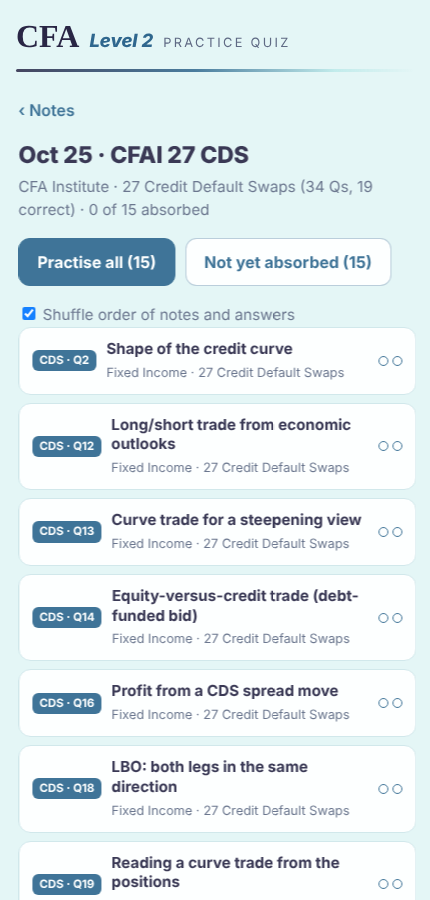
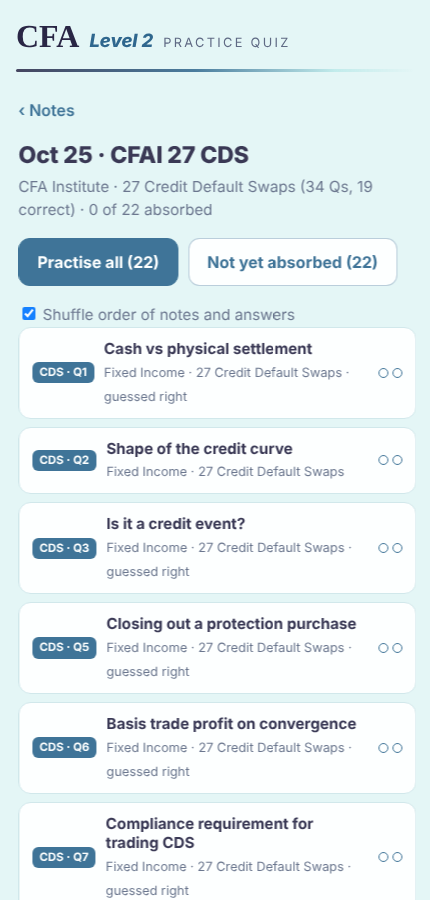
Wrong-answer notes: add 7 guessed/related CDS notes (Q1, Q3, Q5, Q6, Q7, Q8, Q22) with a guessed-right marker
Claude-Session: https://claude.ai/code/session_01F2TRiKrZPFK6G8wEApnUzn

diff --git a/notes.js b/notes.js
@@ -24,7 +24,8 @@ const NOTE_SESSIONS = [
 const NOTES = (() => {
   const N = (mock, num, reading, subject, title, stem, ask, opts, answer, mine, formula, why, general, x) =>
     ({ id: `m${mock}q${num}`, set: `2026-10-24-s${mock}`, tag: `Mock ${mock} · Q${num}`, session: mock, mock, num, reading, subject, title, stem, ask, options: opts.map(([t, n]) => ({ t, n })), answer, mine, formula, why, general, x: x || "" });
-  // CFA Institute 27 Credit Default Swaps, 25 Oct.
+  // CFA Institute 27 Credit Default Swaps, 25 Oct. G = answered correctly but by guessing (or closely related): same fields, flagged.
+  const G = (num, title, ...r) => ({ ...C(num, title, ...r), guess: true });
   const C = (num, title, ...r) => ({ ...N(0, num, 27, "Fixed Income", title, ...r), id: `c${num}`, set: "2026-10-25-cds", tag: `CDS · Q${num}`, session: 3, mock: 0 });
   return [
     // ---------------- Paper 1 ----------------
@@ -389,5 +390,56 @@ const NOTES = (() => {
       ["Bond spread &gt; CDS spread (negative basis): buy the bond, buy protection", "Bond spread &lt; CDS spread (positive basis): short the bond, sell protection"],
       ["Company A: 85.40 &lt; 193.45 → short the A bond and go long the A CDS (sell protection).", "Company B: 205.60 &gt; 165.29 → buy the B bond and buy protection."],
       ["'Go long a CDS' = <b>sell</b> protection; 'go short a CDS' = <b>buy</b> protection. Watch the wording.", "Same comparison as Q27 (bond spread vs CDS spread)."])
+    ,
+    // ---- answered correctly, but guessed or closely related ----
+    G(1, "Cash vs physical settlement",
+      ["Deem owns a $10m senior unsecured UNAB bond (Bond 2) and bought $10m of protection on it. A credit event occurs.", "Bond 1: 2y senior unsecured, <b>40%</b> of par · Bond 2: 5y senior unsecured, <b>50%</b> (Deem's bond) · Bond 3: 5y subordinated, 20%."],
+      "Which settlement should Watt recommend?",
+      [["Cash settlement", "Cash: (1 – 40%) × $10m = $6m, plus selling Bond 2 at 50% = $5m → <b>$11m</b>."], ["Physical settlement", "Deliver Bond 2 and receive only par: $10m."], ["Indifferent", "Cash is $1m better."]], 0, 0,
+      ["Cash payout = notional × (1 – recovery rate of the cheapest-to-deliver bond)", "Physical settlement: deliver a bond, receive par"],
+      ["CTD = Bond 1 (40%, senior unsecured). Bond 3 is subordinated, so it is not eligible.", "Cash: $6m + sale of Bond 2 at $5m = <b>$11m</b>. Physical: <b>$10m</b>."],
+      ["Own bond trades <b>above</b> the CTD → cash settlement is better. Own bond is the CTD → indifferent.", "Compare total proceeds under each route."]),
+    G(3, "Is it a credit event?",
+      ["On 1 July UNAB fails to pay scheduled interest on its <b>subordinated</b> unsecured obligation after the grace period. It has <b>not</b> filed for bankruptcy."],
+      "Did UNAB experience a credit event?",
+      [["Yes", "Failure to pay is a credit event, with or without a bankruptcy filing."], ["No: it did not file for bankruptcy", "Any one of the credit events is enough."], ["No: it was a subordinated bond", "Failure to pay on <b>any</b> outstanding obligation counts after the grace period."]], 0, 0,
+      ["Credit events: bankruptcy · failure to pay · restructuring"],
+      ["A missed payment after the grace period = failure to pay → credit event."],
+      ["Failure to pay needs no bankruptcy filing.", "The recovery rate for a senior CDS is still set by the cheapest-to-deliver <b>senior</b> bond (CDS Q1)."]),
+    G(5, "Closing out a protection purchase",
+      ["Deem bought 10-year protection on Kand (spread 700 bps, coupon 5%). Two months later the spread has <b>increased by 200 bps</b>; Deem closes out with an offsetting contract."],
+      "The offsetting contract will most likely result in:",
+      [["A loss on the CDS", "A loss would need the spread to tighten."], ["A profit on the CDS", "Protection buyer = short credit; the spread widened → gain."], ["Neither a loss nor a profit", "The spread moved, so there is a gain."]], 1, 1,
+      ["Protection buyer gains when spreads widen, loses when they tighten", "Close out = enter the opposite trade (sell protection) and lock in the gain"],
+      ["Bought protection at 700 bps; now sells it at 900 bps → receives more premium than it pays.", "Profit ≈ Δ spread × duration × notional = 2% × 7 = about 14% of notional."],
+      ["Same profit formula as CDS Q16.", "Closing a position means doing the opposite trade."]),
+    G(6, "Basis trade profit on convergence",
+      ["Tollunt 5-year bond yields <b>7%</b>; a comparable CDS has a spread of <b>4.25%</b>; MRR = <b>2.5%</b>.", "The basis trade buys both the bond and the protection."],
+      "If the bond and CDS markets converge, the profit is closest to:",
+      [["0.25%", "Bond spread 4.50% – CDS spread 4.25%."], ["1.75%", "Subtracted MRR from the CDS spread (4.25 – 2.50)."], ["2.75%", "Subtracted the CDS spread from the bond <b>yield</b> (7.00 – 4.25)."]], 0, 0,
+      ["Bond credit spread = bond yield – MRR", "Profit on convergence = |bond spread – CDS spread|"],
+      ["7.00% – 2.50% = 4.50% bond spread.", "4.50% – 4.25% = <b>0.25%</b>."],
+      ["Never compare a bond yield with a CDS spread: subtract MRR first.", "Bond spread &gt; CDS spread (negative basis): buy the bond and buy protection (Q22, Q27, Q34)."]),
+    G(7, "Compliance requirement for trading CDS",
+      ["The Fund wants to trade CDS with SGS, which follows ISDA protocols. The Fund must first satisfy compliance requirements."],
+      "The Fund is most likely required to:",
+      [["Set a notional amount", "A term of each trade, not a compliance requirement."], ["Post an upfront payment", "Depends on the spread and coupon of each trade."], ["Sign an ISDA master agreement", "Signed once, before any CDS transaction."]], 2, 2,
+      ["ISDA master agreement: signed before the first trade; every CDS then follows ISDA specifications"],
+      ["The compliance requirement is the legal agreement that governs all trades."],
+      ["Standardized CDS have a standard fixed coupon (usually 100 or 500 bps); the gap to the market spread is settled with an upfront payment.", "Notional and upfront premium are per-trade terms."]),
+    G(8, "Which type of CDS hedges many exposures",
+      ["Smith wants to <b>fully hedge multiple fixed-income exposures at the same time</b> across a large, diversified fund."],
+      "Which CDS should Chan recommend?",
+      [["CDS index", "Covers many names: a full hedge (CDX, iTraxx)."], ["Tranche CDS", "Covers many names, but only up to a loss level: a partial hedge."], ["Single-name CDS", "One reference entity only."]], 0, 0,
+      ["Single-name: one entity · Index: many entities, full cover · Tranche: many entities, losses between set levels only"],
+      ["Many exposures + full hedge → index."],
+      ["CDX = North America, iTraxx = Europe/Asia.", "A single-name CDS covers only obligations ranking equal to the reference obligation (Q29)."]),
+    G(22, "Basis trade: bond spread above CDS spread",
+      ["A local company is expected to do an LBO (debt-funded buyback of its shares). Its 5y senior unsecured bond spread has risen to <b>450 bps</b>; a comparable 5y CDS trades at <b>400 bps</b>.", "Pereira expects the two spreads to <b>converge</b>."],
+      "Which trade is consistent with his belief?",
+      [["Buy bonds and sell protection", "Long credit on both legs: not a basis trade; the profit would not come from convergence."], ["Buy bonds and buy protection", "Buy the cheap bond, buy the cheap protection; capture the 50 bps gap."], ["Sell bonds and buy protection", "Reversed: shorts the cheap bond."]], 1, 1,
+      ["Bond spread &gt; CDS spread (negative basis): buy the bond and buy protection"],
+      ["Bond spread 450 bps → bond price too low → buy.", "CDS spread 400 bps → protection too cheap → buy.", "If the spreads converge, the trade captures the difference."],
+      ["The trade is largely credit-neutral: the profit comes from convergence.", "Same as Q6, Q27, Q34."])
   ].sort((a, b) => a.session - b.session || a.num - b.num);
 })();

diff --git a/index.html b/index.html
@@ -595,7 +595,7 @@
   const LETTERS = ["A", "B", "C", "D"];
   const STORE_KEY = "cfa-quiz-wrong";
   const PREFS_KEY = "cfa-quiz-prefs";
-  const APP_VERSION = "v123 · 2026-10-25";
+  const APP_VERSION = "v124 · 2026-10-25";
   const TOPICS = [
     "Quantitative Methods", "Economics", "Financial Statement Analysis", "Corporate Issuers", "Equity Valuation",
     "Fixed Income", "Derivatives", "Alternative Investments", "Portfolio Management", "Ethical and Professional Standards"
@@ -894,7 +894,7 @@
       const st = noteSt(d, n);
       const row = el("button", { className: "nt-row" + (noteDone(d, n) ? " absorbed" : "") });
       const mid = el("div", { className: "mid" });
-      mid.append(el("b", {}, n.title), el("span", {}, `${n.subject} · ${n.reading} ${NOTE_READINGS[n.reading]}`));
+      mid.append(el("b", {}, n.title), el("span", {}, `${n.subject} · ${n.reading} ${NOTE_READINGS[n.reading]}${n.guess ? " · guessed right" : ""}`));
       const dots = el("div", { className: "nt-dots" });
       [0, 1].forEach(k => dots.append(el("i", { className: st.streak > k ? "on" : "" })));
       row.append(el("span", { className: "tag" }, noteTag(n)), mid, dots);
@@ -955,7 +955,8 @@
       badge.append(el("span", { className: `nt-badge ${ok ? "good" : "bad"}` }, ok ? "✓ Correct" : "✗ Not quite"));
       if (fresh) badge.append(el("span", { className: "nt-badge soft" }, "Absorbed: it will show lighter now"));
       else if (ok) badge.append(el("span", { className: "nt-badge soft" }, `${st.streak} of 2 in a row`));
-      if (!ok) badge.append(el("span", { className: "sub" }, ` In the mock you chose: ${n.options[n.mine].t.replace(/<[^>]+>/g, "")}`));
+      if (!ok && !n.guess) badge.append(el("span", { className: "sub" }, ` In the mock you chose: ${n.options[n.mine].t.replace(/<[^>]+>/g, "")}`));
+      if (n.guess) badge.append(el("span", { className: "sub" }, " You guessed this one right in the set: make sure it is really yours."));
       after.append(badge);
       const sec = (title, html) => { after.append(el("h4", {}, title)); const box = el("div"); box.innerHTML = html; after.append(box); return box; };
       sec("Formula", `<div class="nt-formula">${n.formula.map(f => `<div>${f}</div>`).join("")}</div>`);

diff --git a/sw.js b/sw.js
@@ -1,6 +1,6 @@
 // Offline support: serve from the network when online (so new questions show up),
 // fall back to the cached copy when offline.
-const CACHE = "cfa-quiz-v123";
+const CACHE = "cfa-quiz-v124";
 const FILES = ["./", "index.html", "questions.js", "vignettes.js", "notes.js", "garden.js", "vendor/three.min.js", "manifest.json", "icons/icon-180.png", "icons/icon-192.png", "icons/icon-512.png"];
 
 self.addEventListener("install", e => {
